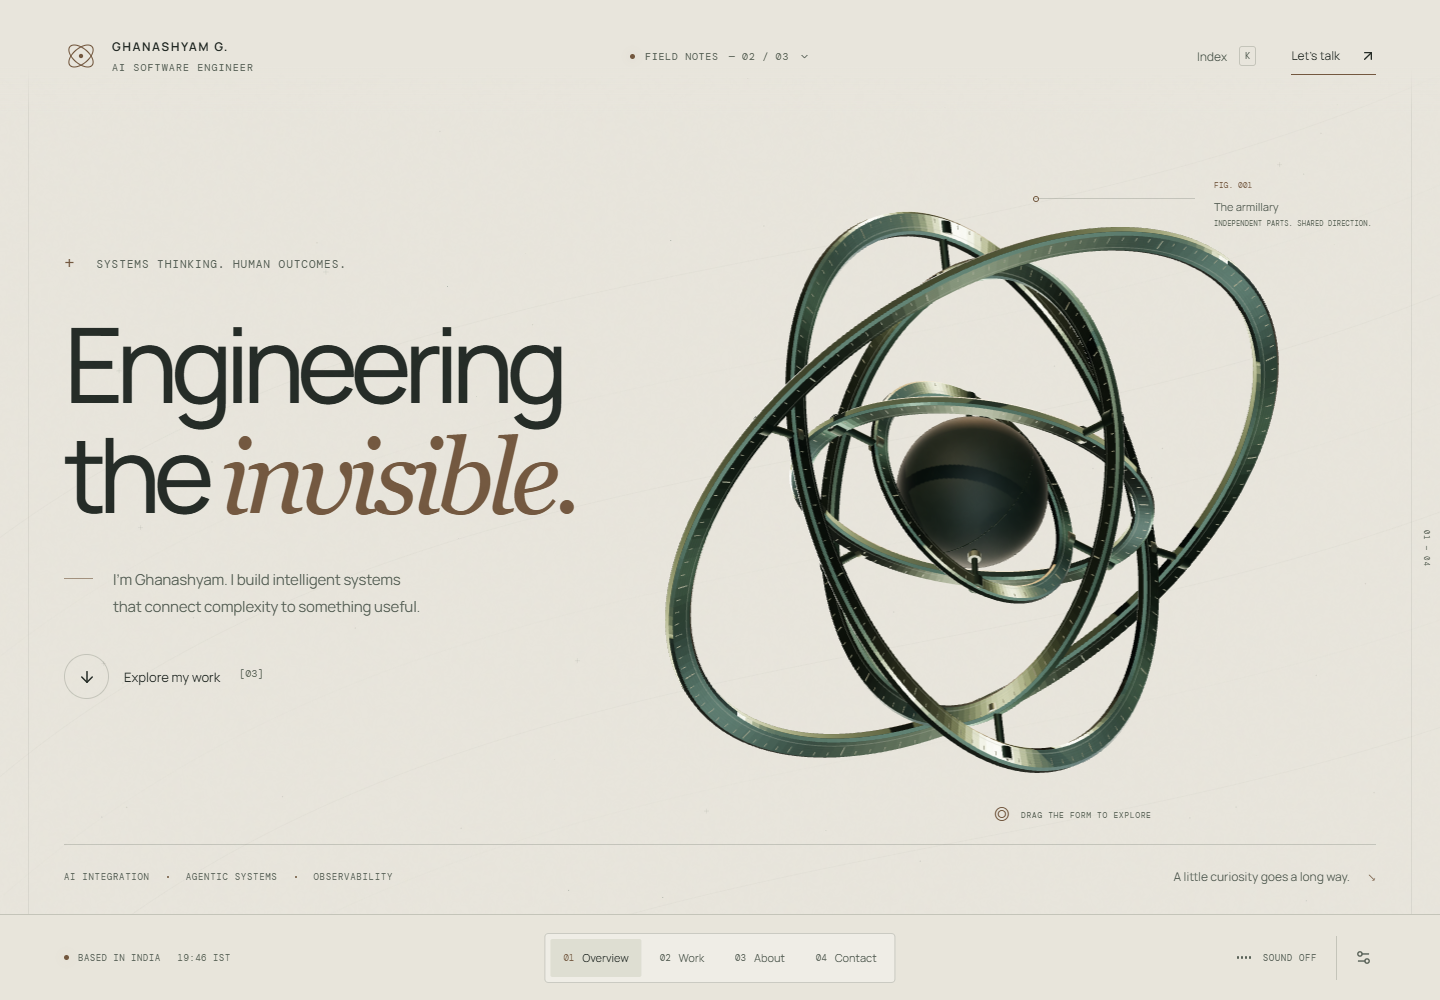
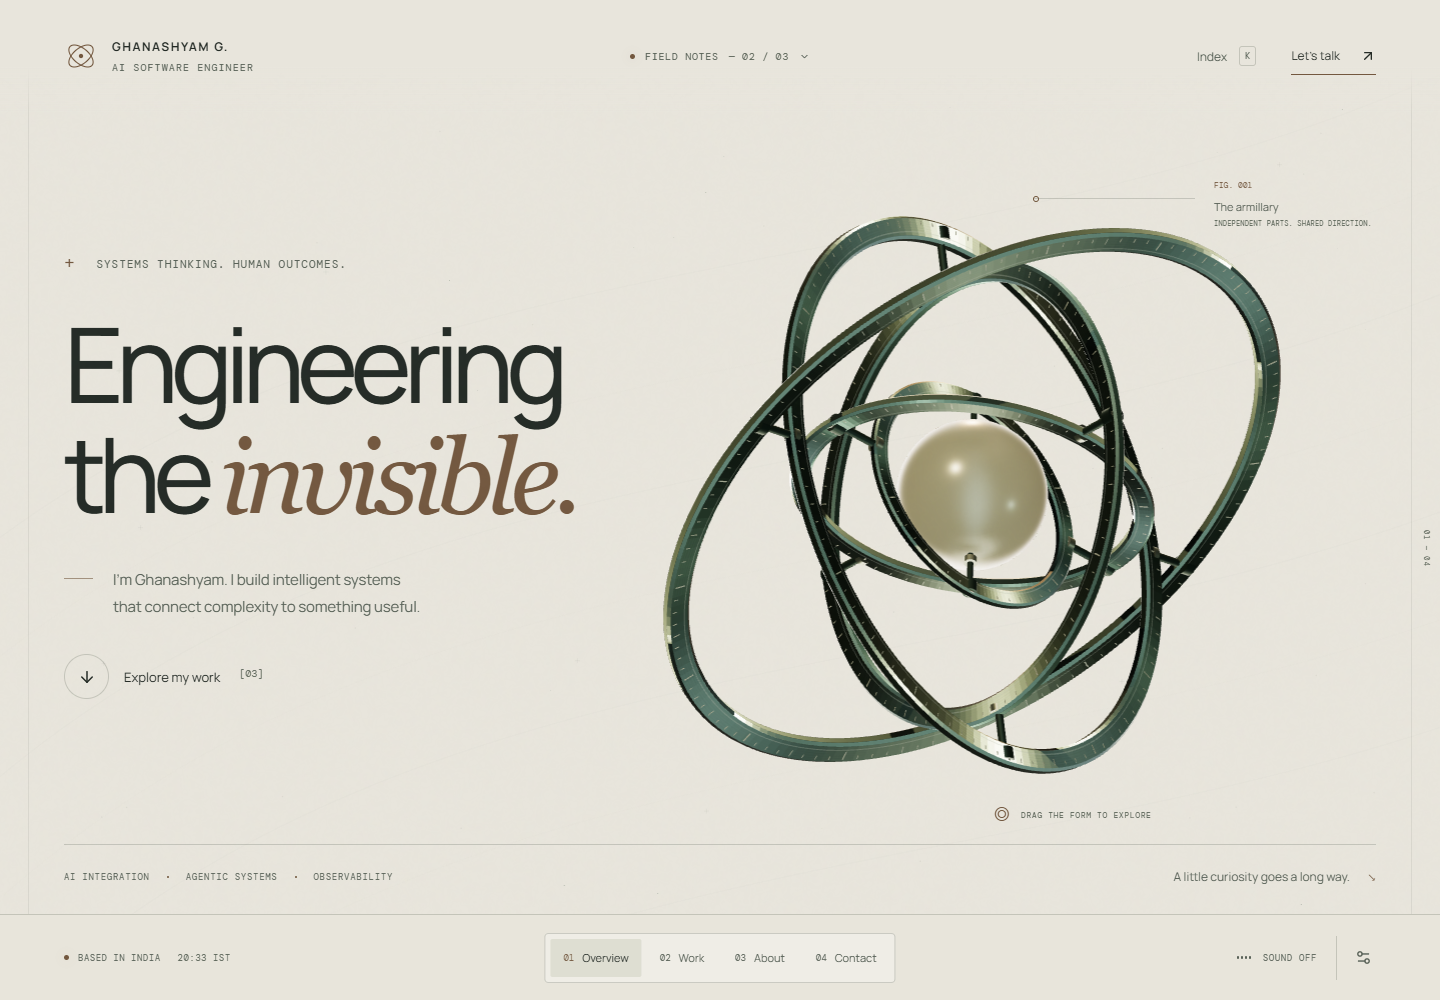
Refine the armillary core and contact headline

Changed region(s): [[0.4375, 0.186, 0.9062, 0.775], [0.75, 0.217, 0.875, 0.31]]

diff --git a/components/observatory/armillary.ts b/components/observatory/armillary.ts
@@ -5,9 +5,9 @@ export type ArmillaryScene = "signal" | "systems" | "practice" | "contact";
 
 const TAU = Math.PI * 2;
 const FINISHES = {
-  copper: { band: "#9e633c", edge: "#bd8a61", bearing: "#594333", engraving: "#492f21", ceramic: "#242825", signal: "#ffe0b1" },
-  silver: { band: "#a3b1b5", edge: "#d0dadf", bearing: "#53636a", engraving: "#465359", ceramic: "#20282d", signal: "#d6edfb" },
-  ink: { band: "#526252", edge: "#98a18b", bearing: "#36483c", engraving: "#aeb49d", ceramic: "#26342c", signal: "#c29b65" },
+  copper: { band: "#9e633c", edge: "#bd8a61", bearing: "#594333", engraving: "#492f21", ceramic: "#8c6948", coreLight: "#efb66f", signal: "#ffe0b1" },
+  silver: { band: "#a3b1b5", edge: "#d0dadf", bearing: "#53636a", engraving: "#465359", ceramic: "#75888e", coreLight: "#b5d6e6", signal: "#d6edfb" },
+  ink: { band: "#526252", edge: "#98a18b", bearing: "#36483c", engraving: "#aeb49d", ceramic: "#67715a", coreLight: "#d6c092", signal: "#c29b65" },
 } satisfies Record<ArmillaryPalette, Record<string, string>>;
 type Finish = keyof typeof FINISHES.copper;
 
@@ -170,8 +170,10 @@ export function createArmillary(compact: boolean, palette: ArmillaryPalette) {
   const etching = material(new THREE.MeshStandardMaterial({ metalness: .4, roughness: .65, envMapIntensity: .5 }), "engraving");
   const tracks = material(new THREE.LineBasicMaterial({ transparent: true, opacity: .29, depthWrite: false }), "engraving");
   const ceramic = material(new THREE.MeshPhysicalMaterial({
-    metalness: .06, roughness: .65, clearcoat: .035, clearcoatRoughness: .6, envMapIntensity: .3,
+    metalness: .22, roughness: .28, clearcoat: .48, clearcoatRoughness: .24, envMapIntensity: .65,
+    emissive: finishTargets[palette].coreLight, emissiveIntensity: .28,
   }), "ceramic");
+  changingColors.push({ color: ceramic.emissive, finish: "coreLight" });
   const signal = material(new THREE.MeshBasicMaterial({
     transparent: true, opacity: .65, vertexColors: true,
     blending: THREE.AdditiveBlending, depthWrite: false, toneMapped: false, side: THREE.DoubleSide,
@@ -269,12 +271,10 @@ export function createArmillary(compact: boolean, palette: ArmillaryPalette) {
   });
 
   const core = new THREE.Group();
-  core.name = "Dark ceramic reference core";
+  core.name = "Luminous reference core";
   core.rotation.set(.26, .18, -.15);
   pivots[pivots.length - 1].add(core);
   addMesh(core, geometry(new THREE.SphereGeometry(.51, compact ? 40 : 64, compact ? 26 : 40)), ceramic, "Ceramic centre");
-  const seam = addMesh(core, geometry(new THREE.TorusGeometry(.5095, .0028, 5, compact ? 96 : 144)), bearing, "Fine ceramic assembly seam");
-  seam.rotation.x = Math.PI / 2;
   addGimbal(pivots[pivots.length - 1], RINGS[RINGS.length - 1].radius, .54, "x", true);
 
   const signalCarrier = new THREE.Group();

diff --git a/components/observatory/Sculpture.tsx b/components/observatory/Sculpture.tsx
@@ -151,12 +151,11 @@ function StaticSculpture({ palette }: { palette: PaletteName }) {
           <stop stopColor={dark} /><stop offset=".22" stopColor={highlight} /><stop offset=".46" stopColor={metal} /><stop offset=".72" stopColor={highlight} /><stop offset="1" stopColor={dark} />
         </linearGradient>
         <radialGradient id={`armillary-core-${id}`} cx=".32" cy=".26" r=".75">
-          <stop stopColor={ink ? "#60715f" : "#4c4b40"} /><stop offset=".48" stopColor={ink ? "#334634" : "#252923"} /><stop offset="1" stopColor={ink ? "#19291e" : "#101811"} />
+          <stop stopColor={ink ? "#e4d8b0" : silver ? "#e0f1f5" : "#ffe0b0"} /><stop offset=".35" stopColor={ink ? "#a9a782" : silver ? "#b0cbd3" : "#d0a575"} /><stop offset="1" stopColor={ink ? "#646b4f" : silver ? "#647d86" : "#896541"} />
         </radialGradient>
       </defs>
       <g strokeLinecap="round" strokeLinejoin="round">{drawArcs(false)}{drawTicks(false)}</g>
-      <circle cx="300" cy="300" r="50" fill={`url(#armillary-core-${id})`} stroke={dark} strokeWidth="2" />
-      <ellipse cx="300" cy="300" rx="49" ry="13" transform="rotate(-18 300 300)" stroke={metal} strokeWidth=".8" opacity=".65" />
+      <circle cx="300" cy="300" r="50" fill={`url(#armillary-core-${id})`} />
       <g strokeLinecap="round" strokeLinejoin="round">{drawArcs(true)}{drawTicks(true)}</g>
     </svg>
   );
@@ -229,7 +228,8 @@ export default function Sculpture({ scene = "signal", palette = "copper", paused
     sculpture.traverse(object => {
       if (object instanceof THREE.Mesh && /Bevelled satin|Ceramic centre/.test(object.name)) {
         object.castShadow = !compact;
-        object.receiveShadow = !compact;
+        // Keep the luminous core smooth; band shadows otherwise read as a seam.
+        object.receiveShadow = !compact && object.name !== "Ceramic centre";
       }
     });
     const raycaster = new THREE.Raycaster();
@@ -564,7 +564,7 @@ export default function Sculpture({ scene = "signal", palette = "copper", paused
       data-drag-hit="false"
       data-dragging="false"
       role="img"
-      aria-label={`A kinetic armillary with five nested metallic rings and a ceramic centre.${ready ? " Drag or use arrow keys to rotate; press R to reset." : ""}`}
+      aria-label={`A kinetic armillary with five nested metallic rings and a softly glowing centre.${ready ? " Drag or use arrow keys to rotate; press R to reset." : ""}`}
       tabIndex={ready ? 0 : -1}
       style={{ position: "absolute", inset: 0, cursor: "default", touchAction: "pan-y" }}
     >

diff --git a/components/observatory/Observatory.tsx b/components/observatory/Observatory.tsx
@@ -243,7 +243,7 @@ export default function Observatory() {
 
         <section className="chapter contact-section" id="contact" aria-labelledby="contact-title">
           <div className="section-topline"><p className="eyebrow"><span className="little-cross">+</span> 04 / AN OPEN CHANNEL</p><span className="section-note">GOOD THINGS START WITH A CONVERSATION</span></div>
-          <div className="contact-content"><p className="contact-kicker">HAVE SOMETHING INTERESTING IN MIND?</p><h2 id="contact-title">Let’s make<br /><em>something matter.</em><ArrowUpRight className="contact-arrow" /></h2><p className="contact-description">A system to untangle. An idea to bring to life.<br />A conversation about what comes next.</p>
+          <div className="contact-content"><p className="contact-kicker">HAVE SOMETHING INTERESTING IN MIND?</p><h2 id="contact-title">Let’s build<br /><em>together.</em><ArrowUpRight className="contact-arrow" /></h2><p className="contact-description">A system to untangle. An idea to bring to life.<br />A conversation about what comes next.</p>
             <div className="contact-buttons"><a href={profile.email ? `mailto:${profile.email}` : profile.linkedin} target={profile.email ? undefined : "_blank"} rel="noreferrer" className="primary-button">Start a conversation {profile.email ? <Mail size={18} /> : <ArrowUpRight size={18} />}</a><a className="social-button" href={profile.github} target="_blank" rel="noreferrer" aria-label="Ghanashyam on GitHub"><Github size={20} /></a><a className="social-button" href={profile.linkedin} target="_blank" rel="noreferrer" aria-label="Ghanashyam on LinkedIn"><Linkedin size={20} /></a></div>
           </div>
           <ContactNote onOpenChange={setDialogOpen} onInteract={() => audio.chime(3)} />

diff --git a/docs/DESIGN.md b/docs/DESIGN.md
@@ -1,6 +1,6 @@
 # The Observatory: design direction
 
-The portfolio presents Ghanashyam's AI and systems engineering practice as an explorable instrument. A kinetic armillary gives the experience a recognizable visual identity: five machined rings around a ceramic core, with warm light travelling through the form. Readable editorial content and interactive project models explain the work. The visual story is connection, inspection and understanding.
+The portfolio presents Ghanashyam's AI and systems engineering practice as an explorable instrument. A kinetic armillary gives the experience a recognizable visual identity: five machined rings around a softly glowing ceramic core, with warm light travelling through the form. Readable editorial content and interactive project models explain the work. The visual story is connection, inspection and understanding.
 
 This MVP contains **one experience with three visual treatments**, selectable in Experience settings. It does not contain three independently designed websites. The material choice changes the interface palette and sculpture finish while preserving the same content, navigation and interactions.
 
@@ -8,7 +8,7 @@ This MVP contains **one experience with three visual treatments**, selectable in
 
 | Treatment | Interface | Artwork and intended feeling |
 | --- | --- | --- |
-| Observatory / copper, default | Warm graphite `#111210`, porcelain `#e9e7df`, copper accent `#d8a680` | Machined copper rings and a ceramic core; tactile detail and warm travelling light. |
+| Observatory / copper, default | Warm graphite `#111210`, porcelain `#e9e7df`, copper accent `#d8a680` | Machined copper rings and a softly glowing ceramic core; tactile detail and warm travelling light. |
 | Field notes / ink | Paper `#e8e5dc`, dark ink `#242b26`, brown accent `#73583f` | The same armillary with an ink-compatible finish; a technical notebook with an editorial character. |
 | After hours / silver | Blue-black `#0e1419`, pale silver `#e4e9eb`, blue-grey accent `#afc9d7` | The same armillary with a cool metallic finish; a more nocturnal, cinematic atmosphere. |
 
@@ -51,7 +51,7 @@ A sparse mathematical field adds depth behind the sculpture: partial curves, plo
 
 On desktop, a small dot tracks the pointer immediately while a faint ring follows with a short ease. The ring expands over controls, introduces directional marks over the sculpture, and contracts during a drag. Text selection and inputs retain native behavior; keyboard navigation hides the decoration. A pointer-transparent manual popover keeps it visible over dialogs and menus without changing their focus. The enhancement requires a fine pointer, an available Popover API, and motion enabled; other cases retain the browser cursor. Both the ring and atmospheric canvas stop drawing once movement settles.
 
-The owner selected the second sculpture concept: a kinetic armillary with five machined copper rings and a ceramic core. This replaces the earlier woven trefoil and supersedes the instruction to retain that sculpture unchanged. The rings, travelling light, drag inertia, and chapter alignment belong to this new form; the surrounding layout, material selector, native scrolling, keyboard controls, Pause, reduced motion, and SVG fallback remain part of the experience. Earlier trefoil screenshots and hit-area checks are historical evidence, not verification of the replacement.
+The owner selected the second sculpture concept: a kinetic armillary with five machined copper rings and a softly glowing ceramic core. This replaces the earlier woven trefoil and supersedes the instruction to retain that sculpture unchanged. The rings, travelling light, drag inertia, and chapter alignment belong to this new form; the surrounding layout, material selector, native scrolling, keyboard controls, Pause, reduced motion, and SVG fallback remain part of the experience. Earlier trefoil screenshots and hit-area checks are historical evidence, not verification of the replacement.
 
 Between the practice notes and career timeline, “INSIDE THE PRODUCT / Software, engineered end to end.” introduces the illustration. The short supporting sentence is “I build interfaces, backend systems, and AI workflows.” This includes interface development and uses direct engineering language. The Practice section keeps three principles: Systems engineering, Applied intelligence, and Operational clarity. A compact application window frames a tall, thin rhombus with a glowing circular centre. Its long diagonal is approximately 1.6 times its width. The window measures 220×136px on desktop and 200×124px on phones, around 60% less area than its previous version. Quiet controls, navigation, tabs, and a status strip retain the application character. The window itself is the Interface component: it stays visible as it moves from 32% to 12% of the stage height and shrinks to 52px wide by .52 reveal progress. Fine chrome recedes as it becomes small, while its silhouette and diamond persist. The introductory copy fades independently. Authenticated API boundaries, application services, agents, retrieval, models, queues, workers, data, a vector index, caching, tools, and integrations open underneath. Observability accompanies the whole system.
 

diff --git a/README.md b/README.md
@@ -25,7 +25,7 @@ Direct material links: `/?theme=copper`, `/?theme=ink`, and `/?theme=silver`.
 
 ## Explore the prototype
 
-- **Turn the armillary.** Five machined copper rings nest around a ceramic core. A warm light travels through the form as the rings turn slowly about different axes; scrolling aligns the sculpture with each chapter. Drag to rotate it and release for a gentle inertial settle. A precise desktop dot and softly following cursor ring adapt to controls and dragging; text inputs and touch/reduced-motion use native behavior. Focus the sculpture and use arrow keys; press **R** to reset.
+- **Turn the armillary.** Five machined copper rings nest around a softly glowing ceramic core. A warm light travels through the form as the rings turn slowly about different axes; scrolling aligns the sculpture with each chapter. Drag to rotate it and release for a gentle inertial settle. A precise desktop dot and softly following cursor ring adapt to controls and dragging; text inputs and touch/reduced-motion use native behavior. Focus the sculpture and use arrow keys; press **R** to reset.
 - **Scroll naturally** through the four chapters, use the bottom navigation, or press **K** for the index.
 - **Inspect selected systems.** Relay has explorable workflow stages. The LLM observability model has selectable trace spans and a context budget slider. AIDA changes prepared SQL and sample results when you select a question.
 - **Look closer at the experience.** The career record runs chronologically from ContentEaseAI to Oracle, with concise year labels. Open any entry for contributions, technologies, location, and previous/next navigation. Selected engineering, applied-AI, and observability skills sit beside the practice notes.
@@ -82,7 +82,7 @@ The armillary production build and 14 applicable browser checks passed. See [VER
 | `app/refinements.css` | Readability, scroll reveals, touch layouts, and small-screen refinements |
 | `components/observatory/Observatory.tsx` | Chapters, navigation, settings, and contact |
 | `components/observatory/Sculpture.tsx` | Armillary rendering, pointer/keyboard interaction, chapter poses, and static SVG fallback |
-| `components/observatory/armillary.ts` | Procedural nested rings, ceramic core, materials, and travelling light |
+| `components/observatory/armillary.ts` | Procedural nested rings, luminous ceramic core, materials, and travelling light |
 | `components/observatory/Atmosphere.tsx` | Pointer-responsive mathematical field and parallax |
 | `components/observatory/Cursor.tsx` | Precise desktop pointer with a softly following ring and native-input fallbacks |
 | `components/observatory/SystemMap.tsx` | Annotated architectural layers revealed by ordinary scrolling |

diff --git a/docs/VERIFICATION.md b/docs/VERIFICATION.md
@@ -1,6 +1,14 @@
 # Verification - 12 September 2026
 
-## Latest: kinetic armillary replacement
+## Latest: luminous core and contact headline
+
+The centre now has a softly luminous, glazed finish with palette-matched emission. Both the 3D assembly seam and the SVG seam are removed. The core no longer receives a hard band shadow; its shape still shades smoothly and casts a shadow on the surrounding instrument. The contact headline is the owner's chosen "Let’s build together."
+
+The production build and TypeScript passed. The existing armillary and drag-alignment production suites passed **12 checks in 49.6 seconds**, with two intentional device-specific skips. These cover motion, Pause, reduced motion, keyboard rotation/reset, ring hit-testing, native phone scrolling, and the static fallback. Desktop and phone production captures confirm the new headline and WebGL rendering with no captured page errors. Visual review also covered Copper, Ink, Silver, and the seam-free SVG fallback.
+
+Preview: **http://127.0.0.1:3001**. Updated images: [desktop core](screenshots/desktop-armillary-copper.png), [phone core](screenshots/mobile-armillary-copper.png), [desktop contact](screenshots/desktop-contact-refined.png), and [phone contact](screenshots/mobile-contact-refined.png). The verified source is mirrored to the prepared release checkout; publishing still awaits the previously requested GitHub and Vercel authentication.
+
+## Previous: kinetic armillary replacement
 
 The selected second concept is implemented as five bevelled copper bands with articulated bearings, calibration marks, a matte ceramic centre, and one travelling signal visible from either face of its band. The innermost gimbal completes a slow 125-second revolution. Other ring axes and the outer pose settle toward chapter-specific orientations. Mouse/touch drag has bounded inertia; explicit arrow-key rotation and R reset remain available with reduced motion. The static SVG uses the same initial ring transforms as WebGL.
 

diff --git a/docs/PORTFOLIO-REQUIREMENTS.md b/docs/PORTFOLIO-REQUIREMENTS.md
@@ -13,7 +13,7 @@ This is the source of truth for the requested experience. It records the owner's
 
 ## Sculpture: selected kinetic armillary
 
-The owner chose the second proposed sculpture with “do the second,” referring to the copper nested-ring armillary mockup. Replace the woven trefoil with **five machined copper rings nested around a ceramic core**, with warm light travelling through the form. The rings should move slowly about different axes, respond to dragging with a gentle inertial settle, and align with the page's chapter poses.
+The owner chose the second proposed sculpture with “do the second,” referring to the copper nested-ring armillary mockup. Replace the woven trefoil with **five machined copper rings nested around a softly glowing ceramic core**, with warm light travelling through the form. The rings should move slowly about different axes, respond to dragging with a gentle inertial settle, and align with the page's chapter poses.
 
 Keep the established page composition, three material treatments, phone layouts, native scrolling, keyboard rotation/reset, Pause, reduced-motion support, and a static SVG fallback. The new sculpture should feel like a precise instrument within the existing Observatory. Earlier screenshots, recordings, and passed checks remain historical evidence for the previous implementation; verify the armillary's appearance, movement, interaction, and fallback separately before claiming it is checked or deployed.
 
